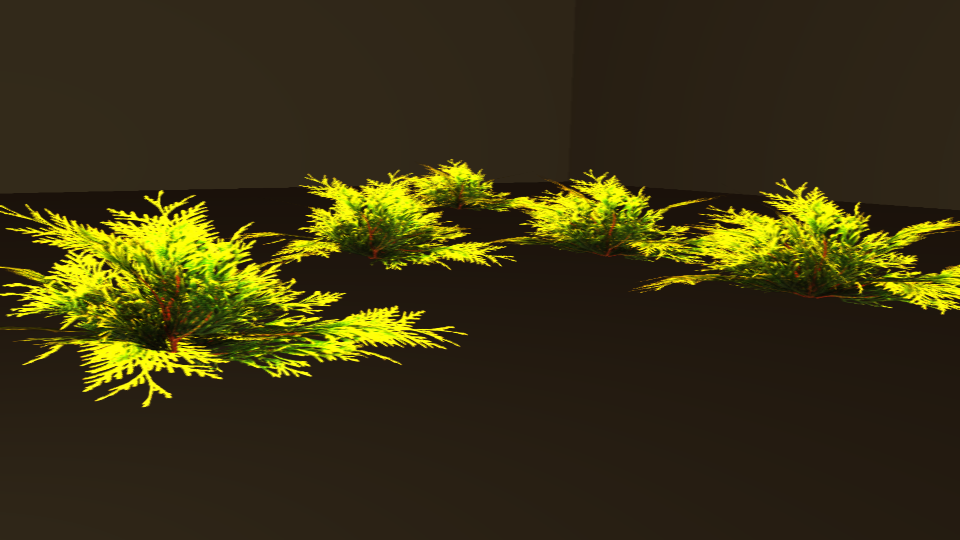
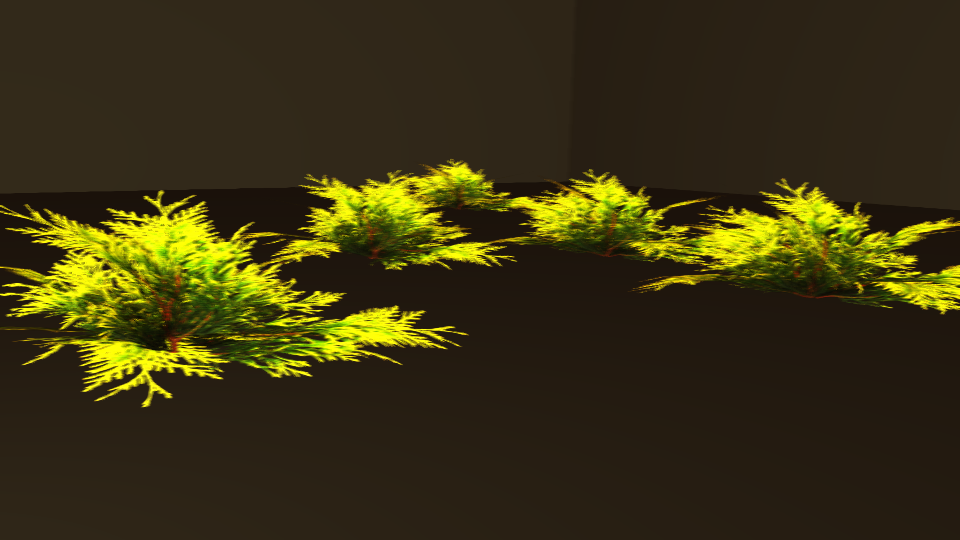
Aliasing FXAA is now on!

Changed region(s): [[0.0, 0.2963, 1.0, 0.6222], [0.0938, 0.6222, 0.2188, 0.7407], [0.2812, 0.563, 0.4688, 0.7111]]

diff --git a/Project/Classes/GraphicsManager.cpp b/Project/Classes/GraphicsManager.cpp
@@ -67,7 +67,7 @@ void GraphicsManager::Render() {
 		//ApplicationContext::GetInstance().GetCompositingObject()->SetText(
 			//ApplicationContext::GetInstance().GetTextObject()->GetText());
 		//ApplicationContext::GetInstance().GetToneMappingObject()->Render();
-		//ApplicationContext::GetInstance().GetAntiAliasingObject()->Render();
+		ApplicationContext::GetInstance().GetAntiAliasingObject()->Render();
 		//ApplicationContext::GetInstance().GetLightningObject()->Render();
 		break;
 	default:
@@ -112,7 +112,7 @@ HRESULT GraphicsManager::CreateDirect3DContext() {
 
 	scd.BufferCount = 1;
 	scd.BufferDesc.Format = DXGI_FORMAT_R8G8B8A8_UNORM;
-	scd.BufferUsage = DXGI_USAGE_RENDER_TARGET_OUTPUT | DXGI_USAGE_UNORDERED_ACCESS;
+	scd.BufferUsage = DXGI_USAGE_RENDER_TARGET_OUTPUT | DXGI_USAGE_UNORDERED_ACCESS | DXGI_USAGE_SHADER_INPUT;
 	scd.OutputWindow = *windowHandle;
 	scd.SampleDesc.Count = 1;
 	scd.Windowed = TRUE;
@@ -137,7 +137,41 @@ HRESULT GraphicsManager::CreateDirect3DContext() {
 		gSwapChain->GetBuffer(0, __uuidof(ID3D11Texture2D), (LPVOID*)&pBackBuffer);
 
 		gDevice->CreateRenderTargetView(pBackBuffer, NULL, &gBackbufferRTV);
+
+		//D3D11_SHADER_RESOURCE_VIEW_DESC srvDesc;
+		//srvDesc.Format = scd.BufferDesc.Format;
+		//srvDesc.ViewDimension = D3D11_SRV_DIMENSION_TEXTURE2D;
+		//HRESULT res = gDevice->CreateShaderResourceView(pBackBuffer, &srvDesc, &gBackbufferSRV);
 		//pBackBuffer->Release();
+
+		// Testing
+		D3D11_TEXTURE2D_DESC desc;
+		ZeroMemory(&desc, sizeof(desc));
+		desc.Width = windowWidth;
+		desc.Height = windowHeight;
+		desc.MipLevels = 0;
+		desc.ArraySize = 1;
+		desc.Format = DXGI_FORMAT_R32G32B32A32_FLOAT;
+		desc.SampleDesc.Count = 1;
+		desc.BindFlags = D3D11_BIND_SHADER_RESOURCE | D3D11_BIND_RENDER_TARGET;
+		desc.Usage = D3D11_USAGE_DEFAULT;
+		desc.CPUAccessFlags = 0;
+		desc.MiscFlags = 0;
+		ID3D11Texture2D* texture;
+		HRESULT iasdf = gDevice->CreateTexture2D(&desc, nullptr, &texture);
+
+		D3D11_RENDER_TARGET_VIEW_DESC rtvDesc;
+		rtvDesc.Format = desc.Format;
+		rtvDesc.ViewDimension = D3D11_RTV_DIMENSION_TEXTURE2D;
+		rtvDesc.Texture2D.MipSlice = 0;
+		HRESULT hrr = gDevice->CreateRenderTargetView(texture, &rtvDesc, &gBackbufferRTV2);
+
+		D3D11_SHADER_RESOURCE_VIEW_DESC srvDesc;
+		srvDesc.Format = desc.Format;
+		srvDesc.ViewDimension = D3D11_SRV_DIMENSION_TEXTURE2D;
+		srvDesc.Texture2D.MostDetailedMip = 0;
+		srvDesc.Texture2D.MipLevels = 1;
+		HRESULT qweq = gDevice->CreateShaderResourceView(texture, &srvDesc, &gBackbufferSRV);
 	};
 
 	return hr;
@@ -169,6 +203,14 @@ UINT GraphicsManager::getWindowHeight() {
 
 ID3D11RenderTargetView** GraphicsManager::getBackbuffer() {
 	return &gBackbufferRTV;
+}
+
+ID3D11RenderTargetView** GraphicsManager::getBackbufferRTV() {
+	return &gBackbufferRTV2;
+}
+
+ID3D11ShaderResourceView** GraphicsManager::getBackbufferSRV() {
+	return &gBackbufferSRV;
 }
 
 void GraphicsManager::setWindowSize(UINT width = 1280, UINT height = 1024) {

diff --git a/Project/Classes/Compositing.cpp b/Project/Classes/Compositing.cpp
@@ -17,8 +17,8 @@ void Compositing::Render() {
 	UINT vertexSize = sizeof(float) * 5;
 	UINT offset = 0;
 
-	gdeviceContext->OMSetRenderTargets(1, manager->getBackbuffer(), nullptr);
-	gdeviceContext->ClearRenderTargetView(*manager->getBackbuffer(), clearColor);
+	gdeviceContext->OMSetRenderTargets(1, manager->getBackbufferRTV(), nullptr);
+	gdeviceContext->ClearRenderTargetView(*manager->getBackbufferRTV(), clearColor);
 
 	gdeviceContext->IASetPrimitiveTopology(D3D11_PRIMITIVE_TOPOLOGY_TRIANGLESTRIP);
 	gdeviceContext->IASetInputLayout(resources.inputLayouts["CompositingLayout"]);

diff --git a/Project/Classes/GraphicsManager.h b/Project/Classes/GraphicsManager.h
@@ -26,6 +26,8 @@ private:
 	ID3D11Device* gDevice = nullptr;
 	ID3D11DeviceContext* gDeviceContext = nullptr;
 	ID3D11RenderTargetView* gBackbufferRTV = nullptr;
+	ID3D11RenderTargetView* gBackbufferRTV2 = nullptr;
+	ID3D11ShaderResourceView* gBackbufferSRV = nullptr;
 
 	HWND* windowHandle;
 
@@ -72,6 +74,8 @@ public:
 	UINT getWindowWidth();
 	UINT getWindowHeight();
 	ID3D11RenderTargetView** getBackbuffer();
+	ID3D11RenderTargetView** getBackbufferRTV();
+	ID3D11ShaderResourceView** getBackbufferSRV();
 
 	void setWindowSize(UINT width, UINT height);
 

diff --git a/Project/Classes/Text.cpp b/Project/Classes/Text.cpp
@@ -74,14 +74,14 @@ void Text::Render()
 	{
 		// Initialize Systems
 		m_text[0] = L"Text";
-		m_text[1] = L"Pomme";
+		m_text[1] = L"Pommes";
 		m_text[2] = L"68";
 		InitializeDirect2D();
 		DirectWriteEdge();
 		m_firstTime = false;
 	}
 
-	gdeviceContext->OMSetRenderTargets(1, manager->getBackbuffer(), nullptr);
+	gdeviceContext->OMSetRenderTargets(1, manager->getBackbufferRTV(), nullptr);
 	//gdeviceContext->ClearRenderTargetView(*manager->getBackbuffer(), clearColor);
 
 	gdeviceContext->IASetPrimitiveTopology(D3D11_PRIMITIVE_TOPOLOGY_TRIANGLESTRIP);

diff --git a/Project/ApplicationContext.cpp b/Project/ApplicationContext.cpp
@@ -81,7 +81,7 @@ void ApplicationContext::Initialize()
 		applicationContext->m_text->Initialize();
 		applicationContext->m_compositing->Initialize();
 		//applicationContext->m_toneMapping->Initialize();
-		//applicationContext->m_antiAliasing->Initialize();
+		applicationContext->m_antiAliasing->Initialize();
 		//applicationContext->m_lightning->Initialize();
 		break;
 	default:
